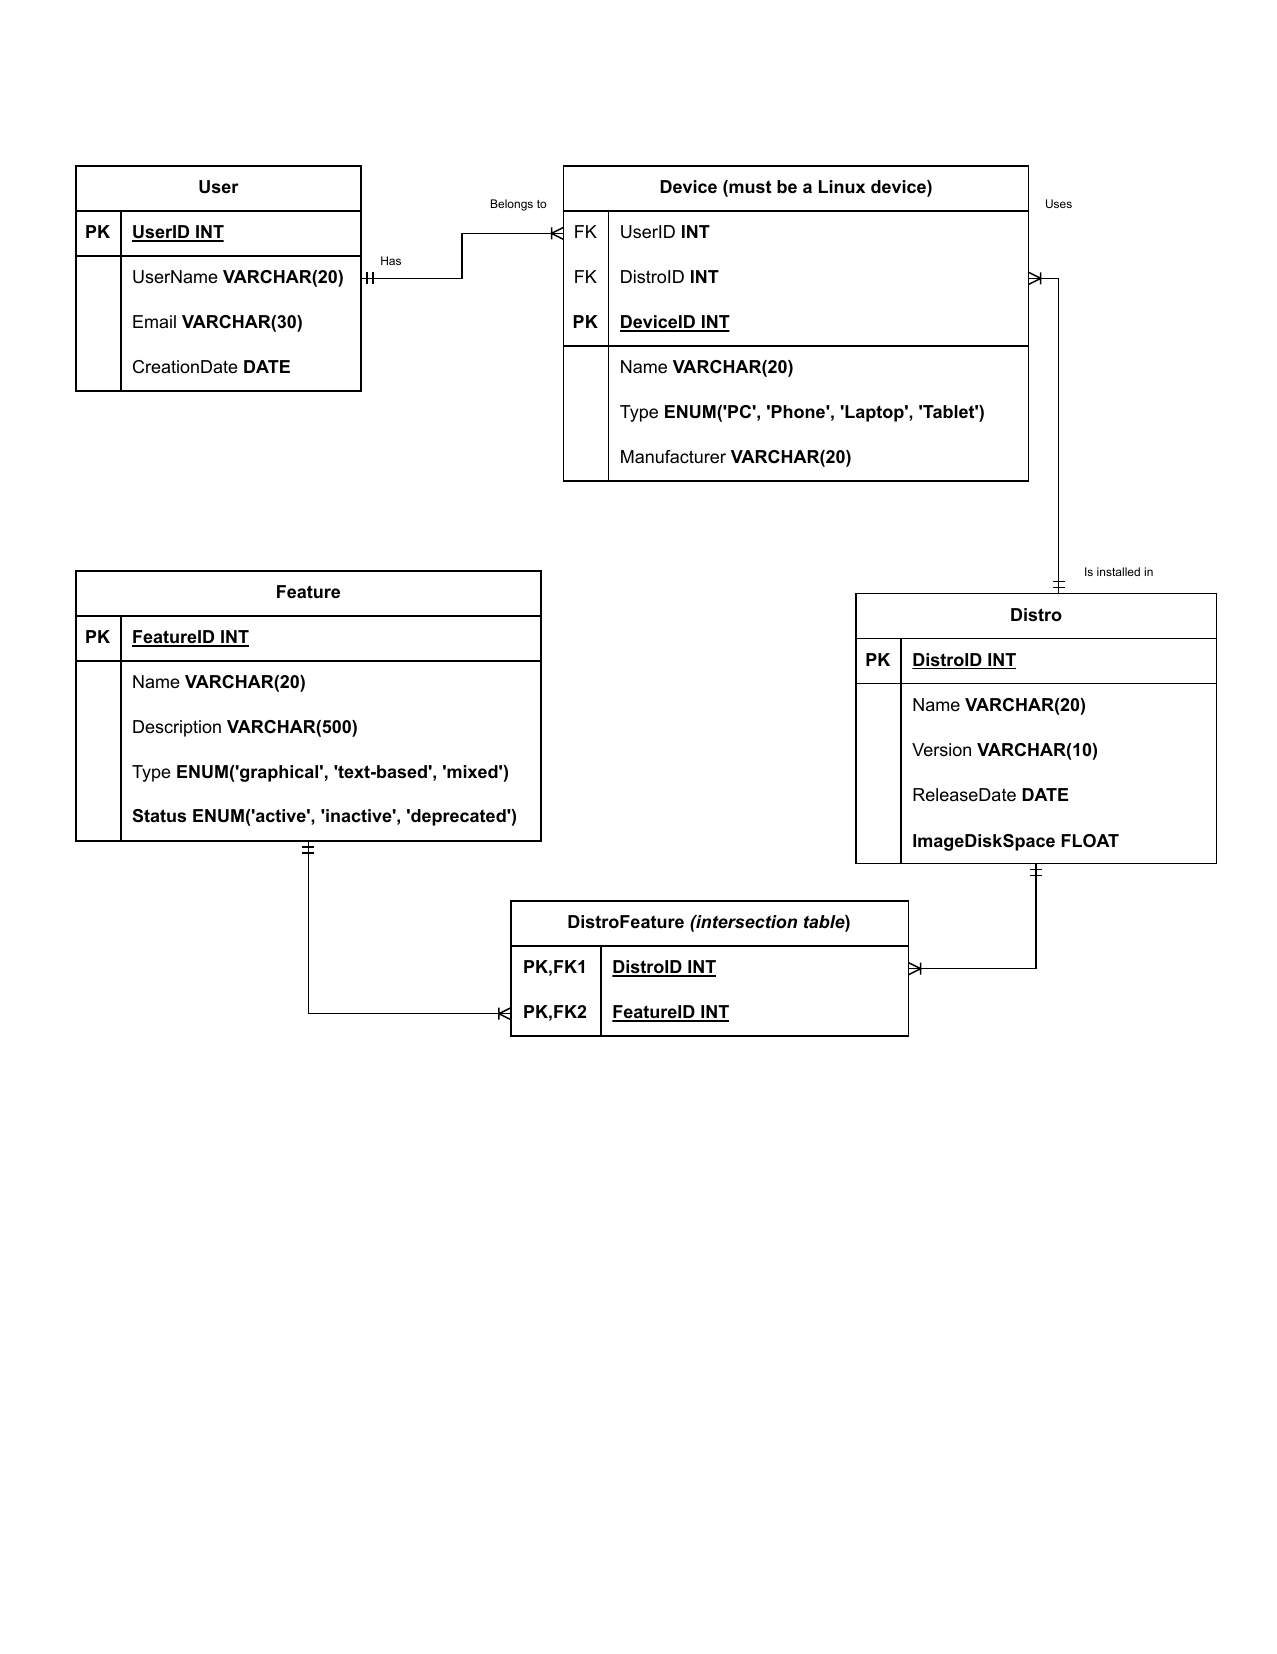
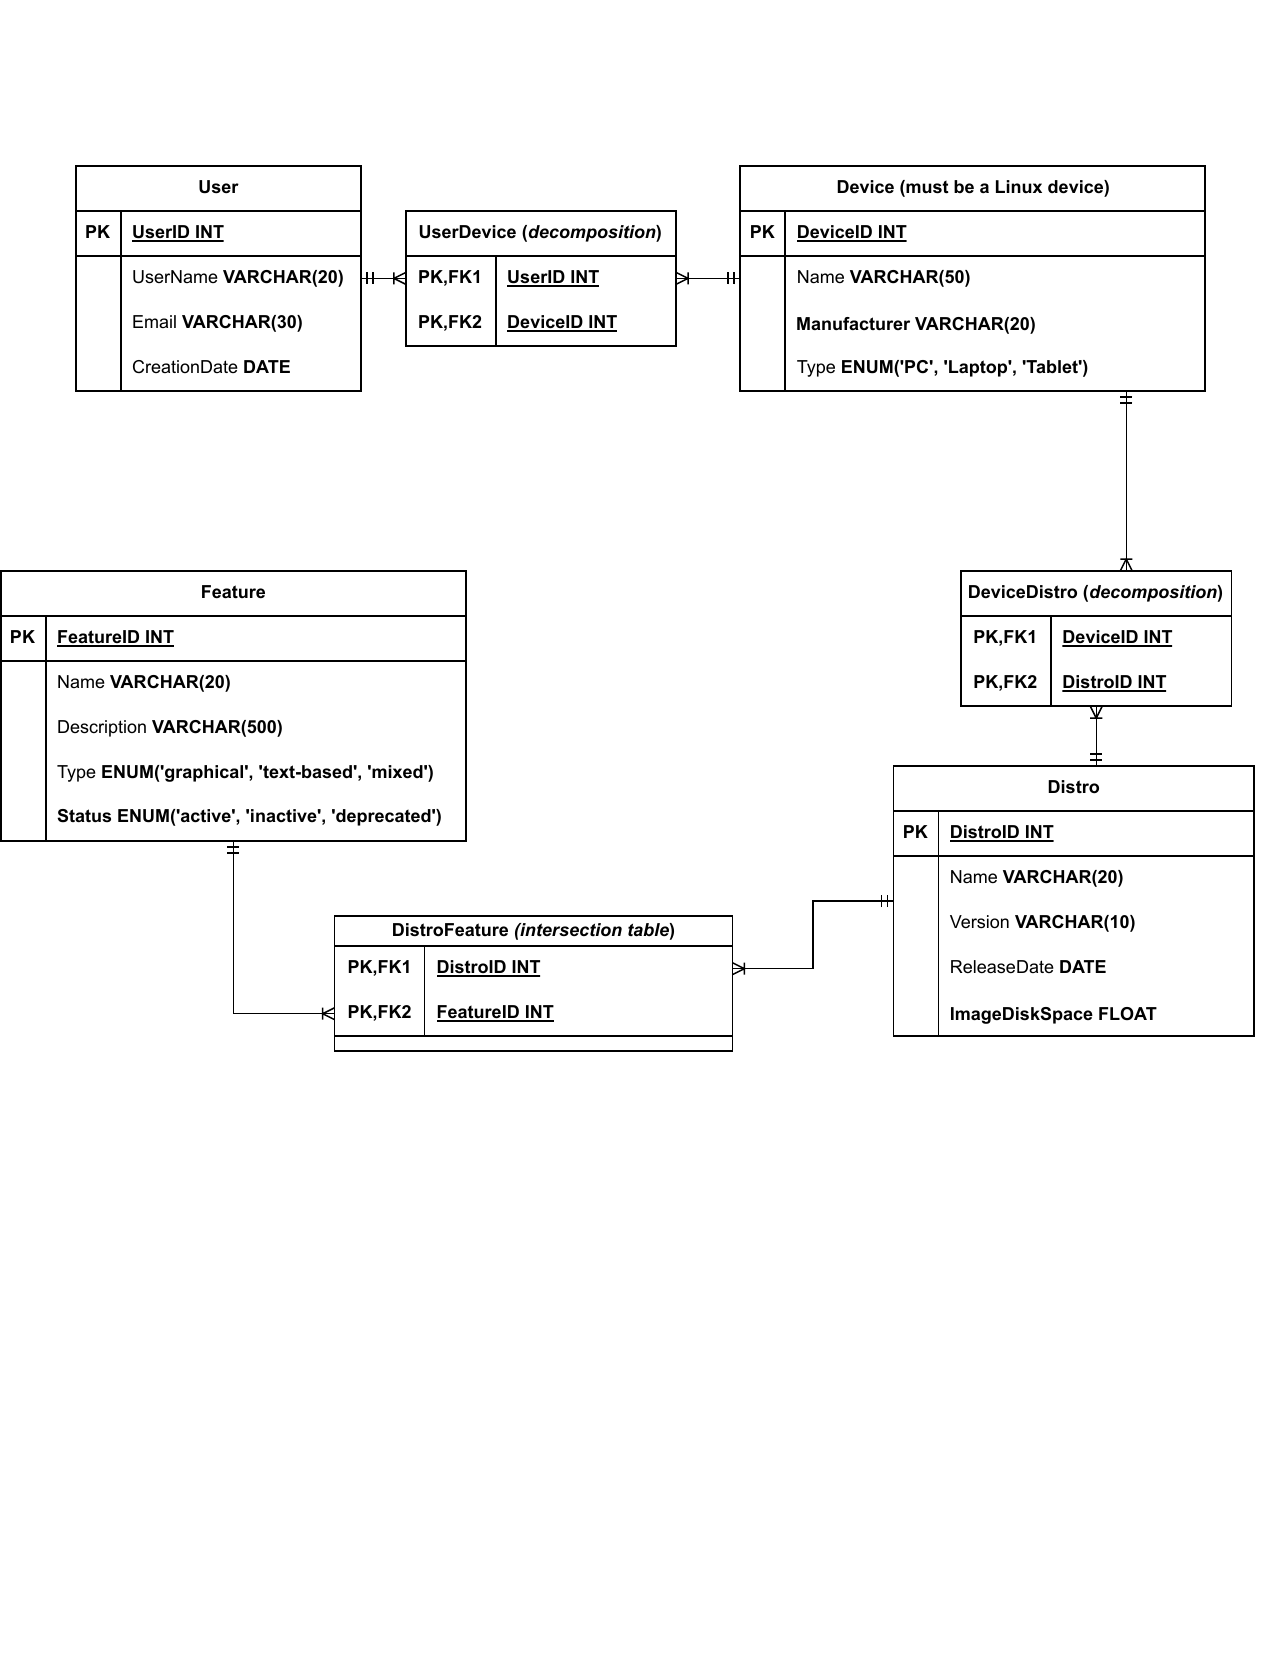
Normalization of database

diff --git a/README.md b/README.md
@@ -9,3 +9,13 @@ Data Sets (Entities):
 
 Entity-Relation Diagram
 ![Database](https://github.com/Alol16578/Distros-mariaDB/blob/main/erdiagram.png?raw=true)
+
+# Normalization Explanation
+
+1. 1-Normal-Form: There doesn't exist a non-atomic value in table, and no repeated attribute in any table (like having UserName1 and UserName2 columns on the same table)
+2. 2-Normal-Form: No Partial Keys dependencies (partial key dependencies must be part of 'composite primary keys'). Each table that has said partial key dependency in the database, is has a composite primary key
+3. 3-Normal-Form: No transitive dependencies
+4. 4-Normal-Form: Tables that contain Composite Keys (UserDevice, DeviceDistro, DistroFeature) have the composite key attributes as the only attributes on the table. This necessarily means that it cant have more independent Multivalued dependencies, and as already seen the tables in this db satisfy the previous normal forms.
+5. 5-Normal-Form: No cyclic dependencies. . This Normal Form was what my previous table since the previous Devices table was a fusion between an intersection table of User and Distro tables and also a table of Devices. To fix this I decomposed this table into 3 tables: Devices, UserDevice, DeviceDistro tables. I did this so that the table couldn’t be decomposed into a set of new tables each having fewer attributes than the original. But appart from this I see that it has all the other lower forms.
+6. Boyce-Codd Normal Form: Every determinant on the db is the primary key of the respective table (determinant meaning, the 'element that determines the rest of the elements')
+
